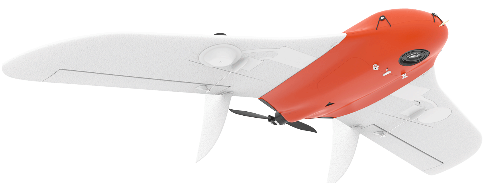
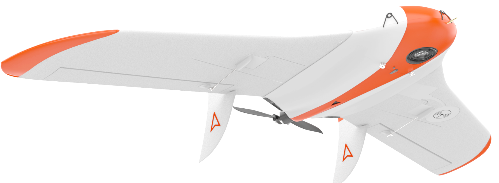
Пусковая установка. Логотипы. Мелкие правки по документам.

diff --git a/conf.py b/conf.py
@@ -89,6 +89,10 @@ def setup(app):
 html_theme_options = {
     'logo_only': True,
 }
+html_logo = "_static/_images/logo.png"
+html_favicon = "_static/_images/favicon.ico"
+html_show_sphinx = False
+
 # Add any paths that contain custom static files (such as style sheets) here,
 # relative to this directory. They are copied after the builtin static files,
 # so a file named "default.css" will overwrite the builtin "default.css".

diff --git a/catapult.rst b/catapult.rst
@@ -56,46 +56,56 @@
 
 * Извлеките детали пусковой установки из транспортировочного чехла.
 
-* Разложите опоры передней части пусковой установки. Убедитесь, что опоры надежно закреплены механизмами фиксации. 
+.. figure:: _static/_images/catapult1.png
+   :align: center
+   :width: 400
 
-* Присоедините среднюю часть пусковой установки.
+   Разложите опоры передней части пусковой установки. Убедитесь, что они надежно закреплены подпружиненными защелками. Чтобы сложить стойки, оттяните защелки вверх.
 
-* Присоедините заднюю часть пусковой установки.
+.. figure:: _static/_images/catapult2.png
+   :align: center
+   :width: 400
+
+   Присоедините среднюю часть пусковой установки.
+
+.. figure:: _static/_images/catapult3.png
+   :align: center
+   :width: 400
+
+   Присоедините заднюю часть пусковой установки.
 
 * Вставьте фиксирующий штифт в отверстие в соединении средней и задней частей пусковой установки.
 
-.. attention:: Запуск БВС разрешен строго против ветра. Категорически запрещается производить запуск БВС по ветру. Невыполнение данного требования может привезти к падению БВС или к столкновению его с препятствиями, поскольку БВС не сможет набрать высоту. В штилевых условиях добавьте на каждую сторону дополнительный виток резиновых жгутов из комплекта ЗИП.
-
 * Установите пусковую установку на ровной поверхности так, чтобы запуск БВС происходил против ветра. Убедитесь, что пусковая установка устойчиво стоит на земле, а ее направляющая не имеет крена. При необходимости заглубите одну из опор для выравнивания конструкции.
 
-* Установите и забейте упорный кол, чтобы предотвратить смещение пусковой установки при запуске БВС.
+.. attention:: Запуск БВС разрешен строго против ветра. Категорически запрещается производить запуск БВС по ветру. Невыполнение данного требования может привезти к падению БВС или к столкновению его с препятствиями, поскольку БВС не сможет набрать высоту. В штилевых условиях добавьте на каждую сторону дополнительный виток резиновых жгутов из комплекта ЗИП.
+
+* Установите и забейте упорный кол в кронштейн задней части пусковой установки, чтобы предотвратить смещение при запуске БВС.
 
 .. attention:: При запуске БВС рывок резиновых жгутов приводит к подбрасыванию задней части пусковой установки. Чтобы надежно закрепить пусковую установку, забивайте кол на всю длину, добиваясь полной неподвижности задних опорных стоек пусковой установки. Забивая кол, следите за тем, чтобы не деформировать заднюю часть пусковой установки.
 
-* Установите каретку на направляющую катапульты так, чтобы направляющие каретки скользили по рельсам.
+
+.. figure:: _static/_images/catapult4.png
+   :align: center
+   :width: 400
+
+   Установите каретку на направляющую катапульты так, чтобы направляющие каретки скользили по рельсам.
 
 
 .. attention:: Убедитесь, что каретка свободно скользит по рельсам, не цепляясь на стыках частей пусковой установки. Осуществляйте проверку свободного движения каретки перед каждым запуском БВС.
 
 * Отведите каретку вниз до фиксации в замке (должно быть два щелчка);
 
-* Вставьте предхранительный штифт в пусковой механизм.
-
-.. attention:: Неисполнение данного требования может привести к случайному срабатыванию замка.
-
-.. attention:: Запуск БВС разрешен строго против ветра. Категорически запрещается производить запуск БВС по ветру. Невыполнение данного требования может привезти к падению БВС или к столкновению его с препятствиями, поскольку БВС не сможет набрать высоту. В штилевых условиях добавьте на каждую сторону дополнительный виток резиновых жгутов из комплекта ЗИП.
-
-* Установите каретку на направляющую пусковой установки со стороны передней части так, чтобы направляющие каретки скользили по рельсам 
-
-* Прокатите каретку по рельсам вниз до ее фиксации в замке (должно быть два щелчка)
-
-.. note:: Убедитесь, что каретка свободно скользит по рельсам, не цепляясь на стыках частей пусковой установки. Осуществляйте проверку свободного движения каретки перед каждым запуском БВС.
-
 .. figure:: _static/_images/catapult8.png
    :align: center
    :width: 400
 
    Вставьте предохранительный штифт в пусковой механизм. 
+
+.. attention:: Неисполнение данного требования может привести к случайному срабатыванию замка.
+
+.. attention:: Запуск БВС разрешен строго против ветра. Категорически запрещается производить запуск БВС по ветру. Невыполнение данного требования может привезти к падению БВС или к столкновению его с препятствиями, поскольку БВС не сможет набрать высоту. В штилевых условиях добавьте на каждую сторону дополнительный виток резиновых жгутов из комплекта ЗИП.
+
 
 * Отпустите стопор лебедки и размотайте натяжной трос.
 

diff --git a/index.rst b/index.rst
@@ -3,12 +3,8 @@
    You can adapt this file completely to your liking, but it should at least
    contain the root `toctree` directive.
 
-Сборка и эксплуатация комплекса Геоскан 101
+Сборка и эксплуатация комплекса Геоскан Lite
 =====================================================
-
-`На сайт Geoscan`_
----------------------
-.. _На сайт Geoscan: https://www.geoscan.aero/
 
 
 .. image:: _static/_images/101.png
@@ -17,11 +13,11 @@
 Общие сведения
 -----------------------
 
-Геоскан 101 – компактный аэрофотосъемочный комплекс, позволяющий выстраивать фотографическую карту местности, матрицу высот или 3D-модель территории.
+Геоскан Lite – компактный аэрофотосъемочный комплекс, позволяющий выстраивать фотографическую карту местности, матрицу высот или 3D-модель территории.
 
 **Назначение**
 
-Комплекс Геоскан 101 предназначен для получения геопривязанных фотографий объектов и площадной аэрофотосъёмки.
+Комплекс Геоскан Lite предназначен для получения геопривязанных фотографий объектов и площадной аэрофотосъёмки.
 
 **Область применения**
 
@@ -64,10 +60,10 @@
 Комплект поставки
 ---------------------
 
-* Беспилотное воздушное судно (БВС) Геоскан 101
+* Беспилотное воздушное судно (БВС) Геоскан Lite
 * Аккумуляторная батарея LiPo 4S, 16000 mAh
 * Полезная нагрузка:
-   * модернизированный фотоаппарат Sony α6000 (для версии «Lite»)
+   * модернизированный фотоаппарат Sony α6000
    * модернизированный фотоаппарат Sony DSC-RX1 (для модификации «Геодезия»)
 * Модем связи с БВС
 * Зарядное устройство
@@ -98,7 +94,7 @@
 Хранение
 -----------
 
-Комплекс Геоскан 101 (без аккумуляторных батарей) хранить в транспортировочном кейсе (пусковую установку – в сумке) в сухих помещениях при температуре от 5 до 25 °С и относительной влажности не более 80%, без конденсации. Срок хранения - 2 года.
+Комплекс Геоскан Lite (без аккумуляторных батарей) хранить в транспортировочном кейсе (пусковую установку – в сумке) в сухих помещениях при температуре от 5 до 25 °С и относительной влажности не более 80%, без конденсации. Срок хранения - 2 года.
 
 Аккумуляторные батареи хранить в сухом прохладном месте, исключающем воздействие прямых солнечных лучей, при температуре от 5 до 25 °С и относительной влажности не более 80%, без конденсации. Оптимальная температура — от 5 до 10 °С. Оптимальный уровень напряжения АКБ при помещении батареи на хранение: 15,12 В. Срок хранения - 1 год.
 

diff --git a/reference.rst b/reference.rst
@@ -1,11 +1,11 @@
 Общие сведения
 =================
 
-Геоскан 101 – компактный аэрофотосъемочный комплекс, позволяющий выстраивать фотографическую карту местности, матрицу высот или 3D-модель территории.
+Геоскан Lite – компактный аэрофотосъемочный комплекс, позволяющий выстраивать фотографическую карту местности, матрицу высот или 3D-модель территории.
 
 **Назначение**
 
-Комплекс Геоскан 101 предназначен для получения геопривязанных фотографий объектов и площадной аэрофотосъёмки.
+Комплекс Геоскан Lite предназначен для получения геопривязанных фотографий объектов и площадной аэрофотосъёмки.
 
 **Область применения**
 
@@ -47,10 +47,10 @@
 Комплект поставки
 ---------------------
 
-* Беспилотное воздушное судно (БВС) Геоскан 101
+* Беспилотное воздушное судно (БВС) Геоскан Lite
 * Аккумуляторная батарея LiPo 4S, 16000 mAh
 * Полезная нагрузка:
-   * модернизированный фотоаппарат Sony α6000 (для версии «Lite»)
+   * модернизированный фотоаппарат Sony α6000
    * модернизированный фотоаппарат Sony DSC-RX1 (для модификации «Геодезия»)
 * Модем связи с БВС
 * Зарядное устройство
@@ -80,6 +80,6 @@
 Хранение
 -----------
 
-Комплекс Геоскан 101 (без аккумуляторных батарей) хранить в транспортировочном кейсе (пусковую установку – в сумке) в сухих помещениях при температуре от 5 до 25 °С и относительной влажности не более 80%, без конденсации. Срок хранения - 2 года.
+Комплекс Геоскан Lite (без аккумуляторных батарей) хранить в транспортировочном кейсе (пусковую установку – в сумке) в сухих помещениях при температуре от 5 до 25 °С и относительной влажности не более 80%, без конденсации. Срок хранения - 2 года.
 
 Аккумуляторные батареи хранить в сухом прохладном месте, исключающем воздействие прямых солнечных лучей, при температуре от 5 до 25 °С и относительной влажности не более 80%, без конденсации. Оптимальная температура — от 5 до 10 °С. Оптимальный уровень напряжения АКБ при помещении батареи на хранение: 15,12 В. Срок хранения - 1 год.

diff --git a/precautions.rst b/precautions.rst
@@ -1,9 +1,9 @@
 Правила безопасности
 =======================
 
-**БВС Геоскан 101 является источником повышенной опасности. При проведении полетов необходимо соблюдать следующие правила:**
+**БВС Геоскан Lite является источником повышенной опасности. При проведении полетов необходимо соблюдать следующие правила:**
 
-* к запуску и техническому обслуживанию беспилотного воздушного судна допускаются лица, прошедшие обучение согласно "Плану теоретической и практической подготовки оператора по управлению беспилотным комплексом Геоскан 101";
+* к запуску и техническому обслуживанию беспилотного воздушного судна допускаются лица, прошедшие обучение согласно "Плану теоретической и практической подготовки оператора по управлению беспилотным комплексом Геоскан Lite";
 
 * при планировании маршрута необходимо изучить район полета и убедиться, что планируемая траектория полета проходит не менее чем на 100 м выше элементов рельефа и высотных объектов (вышек, труб, опор ЛЭП и т.п.);
 

diff --git a/nsu.rst b/nsu.rst
@@ -1,7 +1,7 @@
 Наземная станция управления
 ============================
 
-.. note::Полная комплектация актуальна для модификации «Геодезия», однако инструкция может быть использована для организации НСУ комплектации «Lite».
+.. note:: Комплектация с НСУ актуальна для модификации «Геодезия», однако инструкция может быть использована для организации НСУ для версии Lite.
 
 **Комплект**
 ------------

diff --git a/launch.rst b/launch.rst
@@ -1,7 +1,7 @@
 Запуск
 =========
 
-Чтобы запустить Геоскан 101, последовательно выполните пункты инструкции
+Чтобы запустить Геоскан Lite, последовательно выполните пункты инструкции
 
 
 1) `Зарядите АКБ`_ и убедитесь, что она исправно работает.
